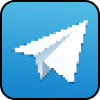
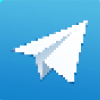
добавил иконки

Changed region(s): [[0.0, 0.0, 1.0, 1.0]]

diff --git a/src/App.js b/src/App.js
@@ -96,8 +96,9 @@ function StartScreen({ onStart }) {
           lineHeight: 1.8,
           margin: 0,
         }}>
-          Это мое портфолио —<br />
-          небольшая игра, я расскажу о своих кейсах в роли проджект-менеджера
+          Это мое портфолио aka небольшая игра,<br />
+          я расскажу о своих кейсах<br />
+          в роли <span style={{whiteSpace:'nowrap'}}>проджект-менеджера.</span>
         </p>
         <button 
           onClick={onStart} 
@@ -119,6 +120,18 @@ function StartScreen({ onStart }) {
         >
         Начать
       </button>
+      {/* Иконки-ссылки под кнопкой */}
+      <div style={{display:'flex',gap:32,marginTop:44,alignItems:'flex-start'}}>
+        <a href="/resume_fin.pdf" target="_blank" rel="noopener noreferrer" style={{display:'flex',alignItems:'flex-start',textDecoration:'none'}}>
+          <img src="/hh.png" alt="Скачать резюме" style={{width:38,height:38,border:'3px solid #222',borderRadius:6,background:'#fff'}} />
+        </a>
+        <a href="https://t.me/washe_chuvachestvo" target="_blank" rel="noopener noreferrer" style={{display:'flex',alignItems:'flex-start',textDecoration:'none'}}>
+          <img src="/tg.png" alt="Telegram" style={{width:38,height:38,border:'3px solid #222',borderRadius:6,background:'#fff'}} />
+        </a>
+        <a href="https://washechuvachestvo.notion.site/11f172e21500808782edf8cb8ab43cab" target="_blank" rel="noopener noreferrer" style={{display:'flex',alignItems:'flex-start',textDecoration:'none'}}>
+          <img src="/me.png" alt="Notion" style={{width:38,height:38,border:'3px solid #222',borderRadius:6,background:'#fff'}} />
+        </a>
+      </div>
       </div>
     </div>
   );
@@ -725,22 +738,22 @@ function Game() {
         <div style={{ height: 24 }} />
         <div>
           <div style={{ fontWeight: 700, fontSize: '0.95rem', marginBottom: '1em', textAlign: 'left', width: '100%', marginTop: 0 }}>
-            Задача
-          </div>
-          <div style={{ fontSize: '0.85rem', marginBottom: '1em', textAlign: 'left', width: '100%', lineHeight: 1.7 }}>
-            Нужно было понять, где теряется время при выводе новых фичей и как ускорить релизы.
-          </div>
+          Задача
+        </div>
+        <div style={{ fontSize: '0.85rem', marginBottom: '1em', textAlign: 'left', width: '100%', lineHeight: 1.7 }}>
+          Нужно было понять, где теряется время при выводе новых фичей и как ускорить релизы.
+        </div>
           <div style={{ fontWeight: 700, fontSize: '0.95rem', marginBottom: '1em', textAlign: 'left', width: '100%', marginTop: '24px' }}>
-            Решение
-          </div>
-          <div style={{ fontSize: '0.85rem', marginBottom: '1em', textAlign: 'left', width: '100%', lineHeight: 1.7 }}>
-            Внедрил метрики Time To Market, автоматизировал сбор данных, построил дешборд и провёл ретроспективу с командой.
-          </div>
+          Решение
+        </div>
+        <div style={{ fontSize: '0.85rem', marginBottom: '1em', textAlign: 'left', width: '100%', lineHeight: 1.7 }}>
+          Внедрил метрики Time To Market, автоматизировал сбор данных, построил дешборд и провёл ретроспективу с командой.
+        </div>
           <div style={{ fontWeight: 700, fontSize: '0.95rem', marginBottom: '1em', textAlign: 'left', width: '100%', marginTop: '24px' }}>
-            Результат
-          </div>
-          <div style={{ fontSize: '0.85rem', textAlign: 'left', width: '100%', lineHeight: 1.7 }}>
-            Команда увидела реальные узкие места и ускорила релизы на 30%.
+          Результат
+        </div>
+        <div style={{ fontSize: '0.85rem', textAlign: 'left', width: '100%', lineHeight: 1.7 }}>
+          Команда увидела реальные узкие места и ускорила релизы на 30%.
           </div>
         </div>
       </div>
@@ -819,22 +832,22 @@ function Game() {
         <div style={{ height: 24 }} />
         <div>
           <div style={{ fontWeight: 700, fontSize: '0.95rem', marginBottom: '1em', textAlign: 'left', width: '100%', marginTop: 0 }}>
-            Задача
-          </div>
-          <div style={{ fontSize: '0.85rem', marginBottom: '1em', textAlign: 'left', width: '100%', lineHeight: 1.7 }}>
-            У новых сотрудников не было нужной инфы: кто за что отвечает, как устроена структура и как работает сложный продукт
-          </div>
+          Задача
+        </div>
+        <div style={{ fontSize: '0.85rem', marginBottom: '1em', textAlign: 'left', width: '100%', lineHeight: 1.7 }}>
+          У новых сотрудников не было нужной инфы: кто за что отвечает, как устроена структура и как работает сложный продукт
+        </div>
           <div style={{ fontWeight: 700, fontSize: '0.95rem', marginBottom: '1em', textAlign: 'left', width: '100%', marginTop: '24px' }}>
-            Решение
-          </div>
-          <div style={{ fontSize: '0.85rem', marginBottom: '1em', textAlign: 'left', width: '100%', lineHeight: 1.7 }}>
-            Я исследовал CJM нового сотрудника и проанализировал выводы. Решением стали обучающий курс, чек-лист и сводная страница в Confluence.
-          </div>
+          Решение
+        </div>
+        <div style={{ fontSize: '0.85rem', marginBottom: '1em', textAlign: 'left', width: '100%', lineHeight: 1.7 }}>
+          Я исследовал CJM нового сотрудника и проанализировал выводы. Решением стали обучающий курс, чек-лист и сводная страница в Confluence.
+        </div>
           <div style={{ fontWeight: 700, fontSize: '0.95rem', marginBottom: '1em', textAlign: 'left', width: '100%', marginTop: '24px' }}>
-            Результат
-          </div>
-          <div style={{ fontSize: '0.85rem', textAlign: 'left', width: '100%', lineHeight: 1.7 }}>
-            Выходные NPS-опросы подтверждают высокий уровень удовлетворенности процессом онбординга.
+          Результат
+        </div>
+        <div style={{ fontSize: '0.85rem', textAlign: 'left', width: '100%', lineHeight: 1.7 }}>
+          Выходные NPS-опросы подтверждают высокий уровень удовлетворенности процессом онбординга.
           </div>
         </div>
       </div>
@@ -913,21 +926,21 @@ function Game() {
         <div style={{ height: 24 }} />
         <div>
           <div style={{ fontWeight: 700, fontSize: '0.95rem', marginBottom: '1em', textAlign: 'left', width: '100%', marginTop: 0 }}>
-            Задача
-          </div>
-          <div style={{ fontSize: '0.85rem', marginBottom: '1em', textAlign: 'left', width: '100%', lineHeight: 1.7 }}>
+          Задача
+        </div>
+        <div style={{ fontSize: '0.85rem', marginBottom: '1em', textAlign: 'left', width: '100%', lineHeight: 1.7 }}>
             8 продуктовых команд —  разные подходы к статусам. Нужно было унифицировать процесс.
-          </div>
+        </div>
           <div style={{ fontWeight: 700, fontSize: '0.95rem', marginBottom: '1em', textAlign: 'left', width: '100%', marginTop: '24px' }}>
-            Решение
-          </div>
-          <div style={{ fontSize: '0.85rem', marginBottom: '1em', textAlign: 'left', width: '100%', lineHeight: 1.7 }}>
+          Решение
+        </div>
+        <div style={{ fontSize: '0.85rem', marginBottom: '1em', textAlign: 'left', width: '100%', lineHeight: 1.7 }}>
             Провёл аудит, собрал требования, разработал флоу задач и шаблон отчёта, внедрил единый процесс и обучил команды.
-          </div>
+        </div>
           <div style={{ fontWeight: 700, fontSize: '0.95rem', marginBottom: '1em', textAlign: 'left', width: '100%', marginTop: '24px' }}>
-            Результат
-          </div>
-          <div style={{ fontSize: '0.85rem', textAlign: 'left', width: '100%', lineHeight: 1.7 }}>
+          Результат
+        </div>
+        <div style={{ fontSize: '0.85rem', textAlign: 'left', width: '100%', lineHeight: 1.7 }}>
             Теперь у руководителя есть наглядный инструмент для контроля, а у команд — прозрачный и регулярный формат статусов.
           </div>
         </div>
@@ -1008,21 +1021,21 @@ function Game() {
         <div style={{ height: 24 }} />
         <div>
           <div style={{ fontWeight: 700, fontSize: '0.95rem', marginBottom: '1em', textAlign: 'left', width: '100%', marginTop: 0 }}>
-            Задача
-          </div>
-          <div style={{ fontSize: '0.85rem', marginBottom: '1em', textAlign: 'left', width: '100%', lineHeight: 1.7 }}>
+          Задача
+        </div>
+        <div style={{ fontSize: '0.85rem', marginBottom: '1em', textAlign: 'left', width: '100%', lineHeight: 1.7 }}>
             ИТ лидировали встречу с приоритетами за круглым столом с заказчиками. Общих принципов приоритезации не было и всем было сложно договориться.
-          </div>
+        </div>
           <div style={{ fontWeight: 700, fontSize: '0.95rem', marginBottom: '1em', textAlign: 'left', width: '100%', marginTop: '24px' }}>
-            Решение
-          </div>
-          <div style={{ fontSize: '0.85rem', marginBottom: '1em', textAlign: 'left', width: '100%', lineHeight: 1.7 }}>
+          Решение
+        </div>
+        <div style={{ fontSize: '0.85rem', marginBottom: '1em', textAlign: 'left', width: '100%', lineHeight: 1.7 }}>
             Провёл аудит взаимодействия, описал болевые точки и предложил единый принцип приоритезации, за который теперь отвечают бизнес-команды.
-          </div>
+        </div>
           <div style={{ fontWeight: 700, fontSize: '0.95rem', marginBottom: '1em', textAlign: 'left', width: '100%', marginTop: '24px' }}>
-            Результат
-          </div>
-          <div style={{ fontSize: '0.85rem', textAlign: 'left', width: '100%', lineHeight: 1.7 }}>
+          Результат
+        </div>
+        <div style={{ fontSize: '0.85rem', textAlign: 'left', width: '100%', lineHeight: 1.7 }}>
             Процесс стал прозрачным: бизнес приносит уже согласованный бэклог, а ИТ фокусируется на задачах с понятным приоритетом.
           </div>
         </div>
@@ -1206,13 +1219,13 @@ function Game() {
       <div style={{ fontSize: '0.95rem', color: '#222', marginBottom: '1.2em', textAlign: 'left', width: '100%', lineHeight: 1.7 }}>&nbsp;</div>
       <div style={{display:'flex',gap:32,flexWrap:'wrap',marginTop:16,justifyContent:'flex-start',alignItems:'flex-start',alignSelf:'flex-start',width:'100%'}}>
         <a href="/resume_fin.pdf" target="_blank" rel="noopener noreferrer" style={{display:'flex',alignItems:'flex-start',textDecoration:'none'}}>
-          <img src="/hh.png" alt="Скачать резюме" style={{width:48,height:48}} />
+          <img src="/hh.png" alt="Скачать резюме" style={{width:48,height:48,border:'3px solid #222',borderRadius:6,background:'#fff'}} />
         </a>
         <a href="https://t.me/washe_chuvachestvo" target="_blank" rel="noopener noreferrer" style={{display:'flex',alignItems:'flex-start',textDecoration:'none'}}>
-          <img src="/tg.png" alt="Telegram" style={{width:48,height:48}} />
+          <img src="/tg.png" alt="Telegram" style={{width:48,height:48,border:'3px solid #222',borderRadius:6,background:'#fff'}} />
         </a>
-        <a href="#" onClick={() => window.location.reload()} style={{display:'flex',alignItems:'flex-start',textDecoration:'none'}}>
-          <img src="/me.png" alt="Еще раз!" style={{width:48,height:48}} />
+        <a href="https://washechuvachestvo.notion.site/11f172e21500808782edf8cb8ab43cab" target="_blank" rel="noopener noreferrer" style={{display:'flex',alignItems:'flex-start',textDecoration:'none'}}>
+          <img src="/me.png" alt="Еще раз!" style={{width:48,height:48,border:'3px solid #222',borderRadius:6,background:'#fff'}} />
         </a>
       </div>
     </div>
